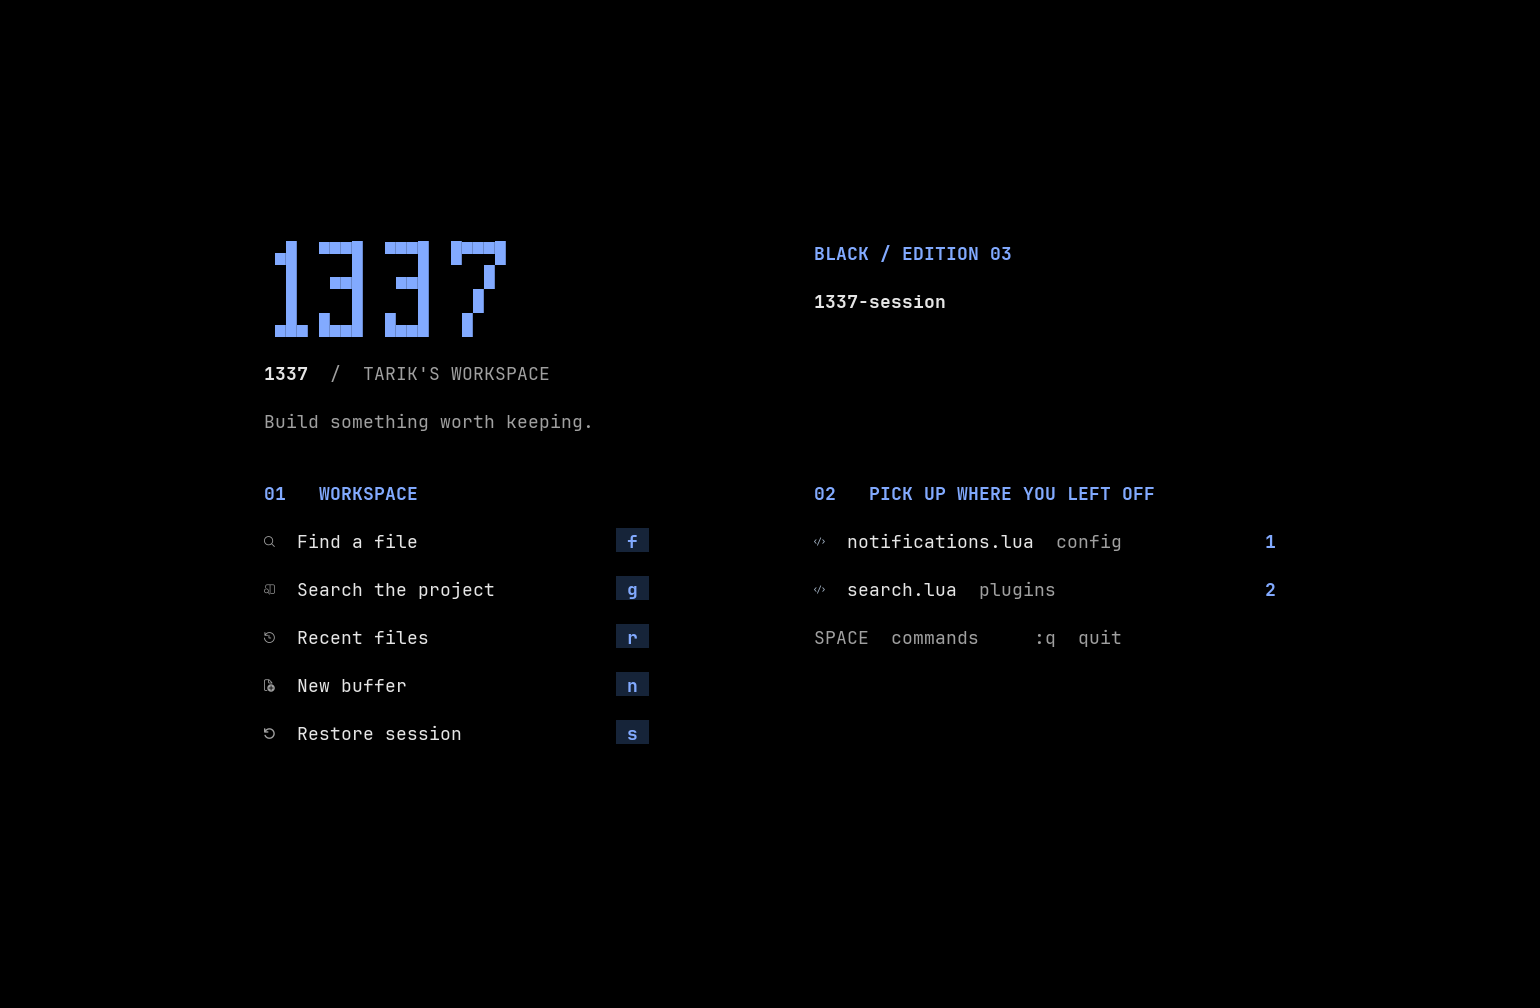
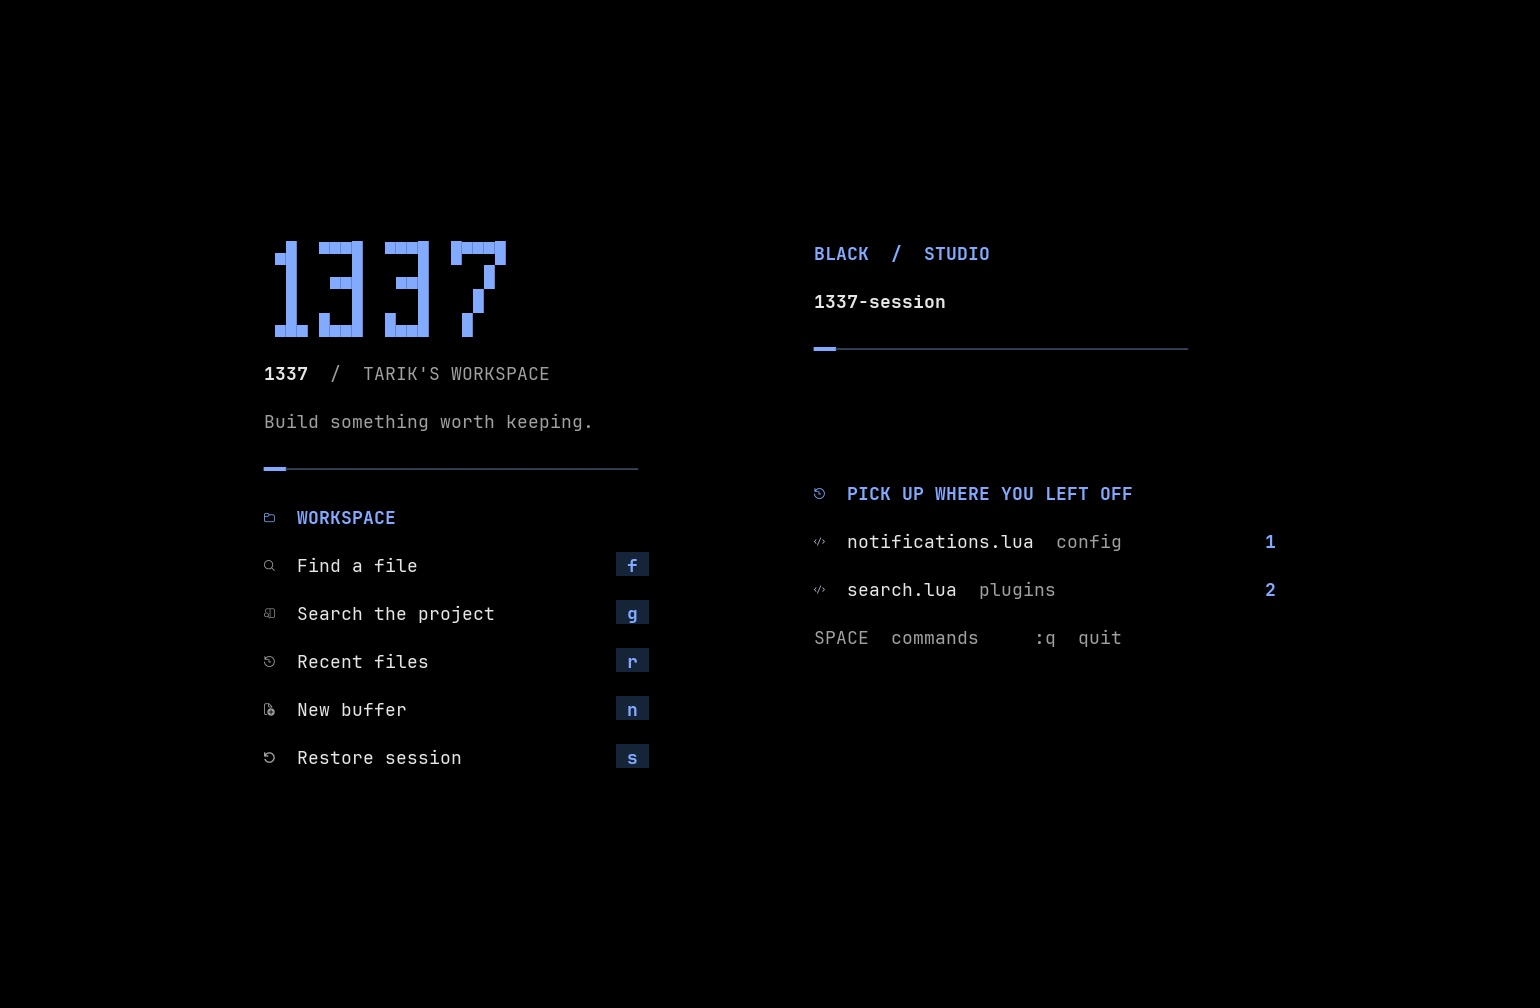
Add quiet dashboard decoration, panel rules and active-tab accents

diff --git a/nvim/DESIGN.md b/nvim/DESIGN.md
@@ -278,3 +278,13 @@ background, keeping the mode as the only raised control. Panels, selections and
 the pure-black code canvas remain flat. This is a terminal bevel, not simulated
 soft shadows or rounded pixel geometry. Edge contrast is decorative; the mode
 label carries the information.
+
+## Quiet decoration
+
+The launch dashboard gains two-tone section rules and compact Nerd Font labels.
+Its right pane uses a BLACK / STUDIO label instead of a numbered edition. Search
+and file-browser floats gain a single top rule, making their native titles visible
+without a complete frame. The active buffer uses a blue vertical marker and filled
+selected surface; the label stays bold and readable. The existing raised mode
+indicator remains the only beveled control. These are static highlights and glyphs:
+no animations, new plugins, shadow windows or extra persistent chrome rows.

diff --git a/nvim/README.md b/nvim/README.md
@@ -4,6 +4,13 @@ A standalone Neovim configuration: **no LazyVim distribution**. lazy.nvim manage
 36 explicitly configured plugins and dependencies, pinned in `lazy-lock.json`.
 Pure-black code, italic comments, opaque panels, and **ty + Ruff** for Python.
 
+## Workspace
+
+![Decorated workspace dashboard](assets/workspace.png)
+
+Blue-tipped section rules, matching icons, and a compact layout at 80×24.
+Search and file panels use a single top rule; the active tab has a blue marker.
+
 ## Editing surfaces
 
 ![Python palette and status bar](assets/python.png)
